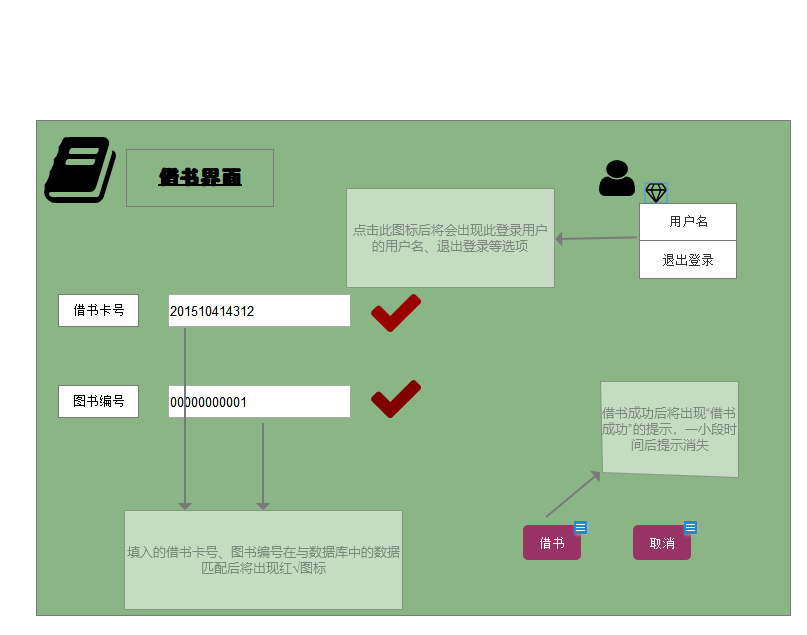
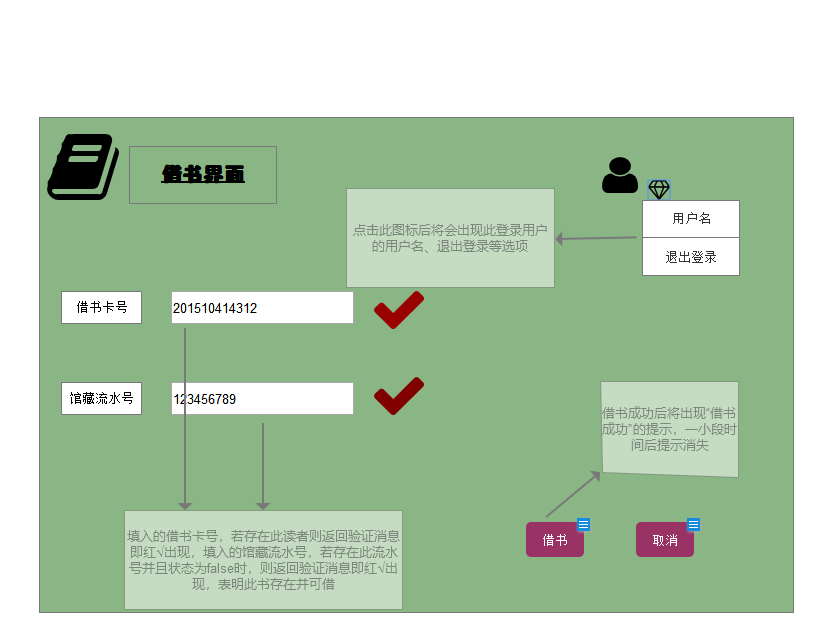
修改借书界面

Changed region(s): [[0.031, 0.1801, 0.9913, 0.9905]]

diff --git a/test5/README.md b/test5/README.md
@@ -105,12 +105,6 @@
 ```
 {
     "info": "退出成功",
-    "data": [
-        {
-          "STAFFNUM": "001",
-          "STAFFNAME": "xxx"
-         } 
-     ], 
     "code": 200
 }
 ```
@@ -119,11 +113,10 @@
 |参数名称|说明|
 |:-------:|:-------------: |
 |Info|返回信息|
-|data|用户的个人信息（这里的用户是图书管理员）,密码为了安全不予显示|
 |dodo|返回码|
 
-2. 返回借书结果的API
-- 功能：用于获取借书结果
+2. 实现借书操作的API
+- 功能：实现借书操作
 - 请求地址： http://BookMange/v1/api/borrowResult
 - 请求方法：POST
 
@@ -140,10 +133,10 @@
     "data": 
         {
           "BORRNUM" = "000001"
-          "SERIALNUM" = "000000101"
+          "SERIALNUM" = "123456789"
           "READERNUM" ="201510414312"
-          "BORRDATE" ="2018.5.6 17:32"
-          "CRETURNDATE" ="2018.6.6 17:32"
+          "BORRDATE" ="2018-05-08 13:48:01"
+          "CRETURNDATE" ="2018-06-08 13:48:01"
           "RETURNDATE" = ""
         },
     "code": 200
@@ -154,14 +147,14 @@
 |参数名称|说明|
 |:-------:|:-------------: |
 |Info|返回信息|
-|data|生成的借书记录|
+|data|生成的借书记录,其中只有流水馆藏号和借书卡号需要手动填写，其他的参数，如日期时间自动获取服务器时间，编号根据一定的规律自动产生（比如日期）|
 |dodo|返回码|
 
 3. 验证读者编号API
 - 功能：验证用户名
 - 请求地址：http://BookMange/v1/api/verifyReader
 - 请求方法：POST
-- 请求参数：
+- 请求参数：READERNUM（借书卡号） ="201510414312"
 
 |参数名称|必填|说明|
 |:-------:|:-------------: | :----------:|
@@ -193,11 +186,11 @@
 |data|查询到的读者信息，密码为了安全不予显示|
 |dodo|返回码|
 
- 4. 验证图书编号API
- - 功能：验证图书编号
+ 4. 验证图书是否存在并可借API
+ - 功能：验证图书是否存在并可借
  - 请求地址：http://BookMange/v1/api/verifyBook
  - 请求方法：POST
- - 请求参数：
+ - 请求参数： SERIALNUM(馆藏流水号) = "123456789"
  
  |参数名称|必填|说明|
  |:-------:|:-------------: | :----------:|
@@ -208,18 +201,11 @@
  ```
  
  {
- "info": "存在此类图书",
+ "info": "此馆藏流水号存在并可借",
      "data": [
          {
-             "BOOKNAME" = "信息系统分析与设计"
-             "ISBN" = "978-7-302-32982-404"
-             "AUTHOR" ="王小敏"
-             "PUBLISH" = "清华大学出版社"
-             "PUBLISHDATE" = "2013"
-             "STIRENUM" = 200
-             "BCBORRNUM" = 159
-             "PRICE" = 45
-             "CONTENT" = "本书共十四章...."
+             "SERIALNUM" = "123456789"
+             "STATUS" = "false"
          }
      ],
      "code": 200
@@ -230,5 +216,38 @@
  |参数名称|说明|
  |:-------:|:-------------: |
  |Info|返回信息|
- |data|查询到的图书信息|
+ |data|资源项表中的馆藏流水号和状态|
+ |dodo|返回码|
+ 
+ 
+ 5. 获取管理员信息API
+ - 功能：用于获取登录用户的信息
+ - 请求地址： http://BookMange/v1/api/adminInfo
+ - 请求方法：POST
+ - 请求参数： STAFFNUM用户的编号（这里的用户是图书管理员)
+ 
+ |参数名称|必填|说明|
+ |:-------:|:-------------: | :----------:|
+ |access_token|是|用于验证请求合法性的认证信息。 |
+ |method|是|固定为 “POST”。|
+ 
+ - 返回实例：
+ ```
+ {
+ "info": "用户信息",
+      "data": [
+          {
+              "STAFFNUM" = "00000001"
+              "STAFFNAME" = "ABC"
+          }
+      ],
+      "code": 200
+ }
+ ```
+ - 返回参数说明：
+     
+ |参数名称|说明|
+ |:-------:|:-------------: |
+ |Info|返回信息|
+ |data|获取到的用户的编号和姓名，由于密码属于敏感信息，在需要时单独获取| 
  |dodo|返回码|
